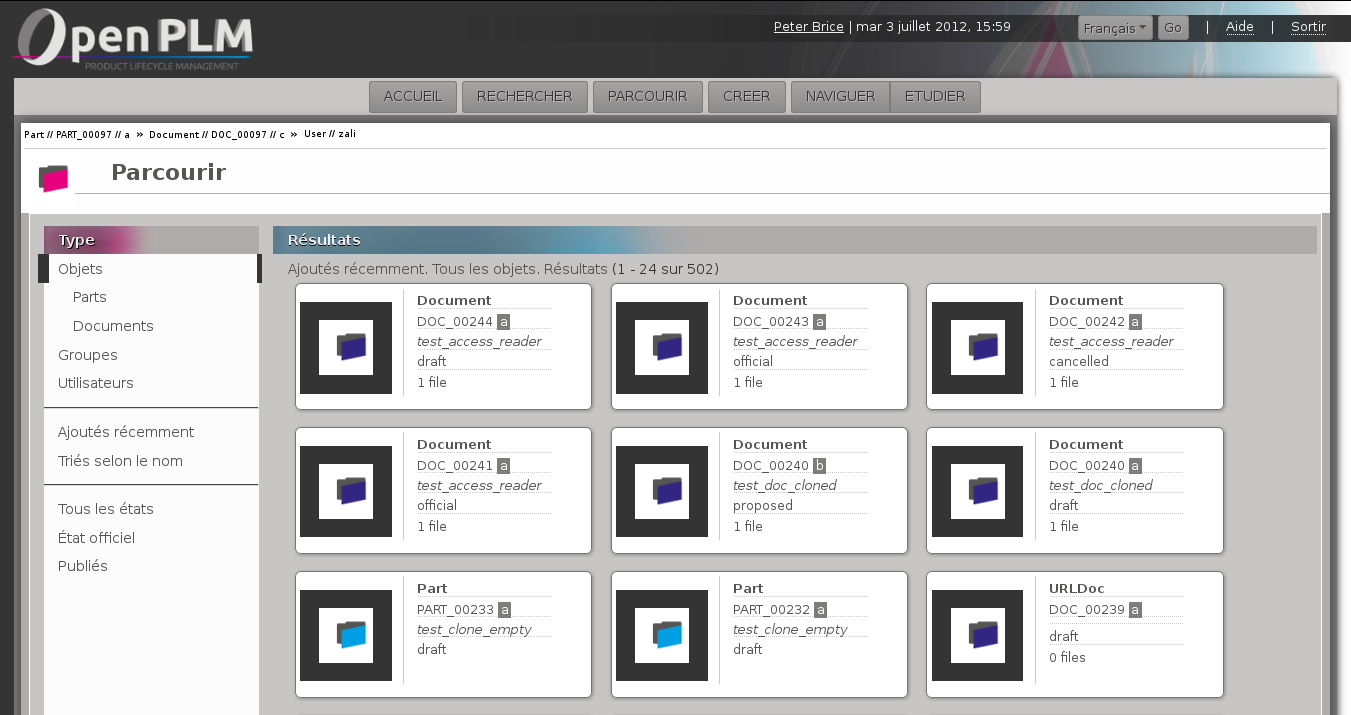
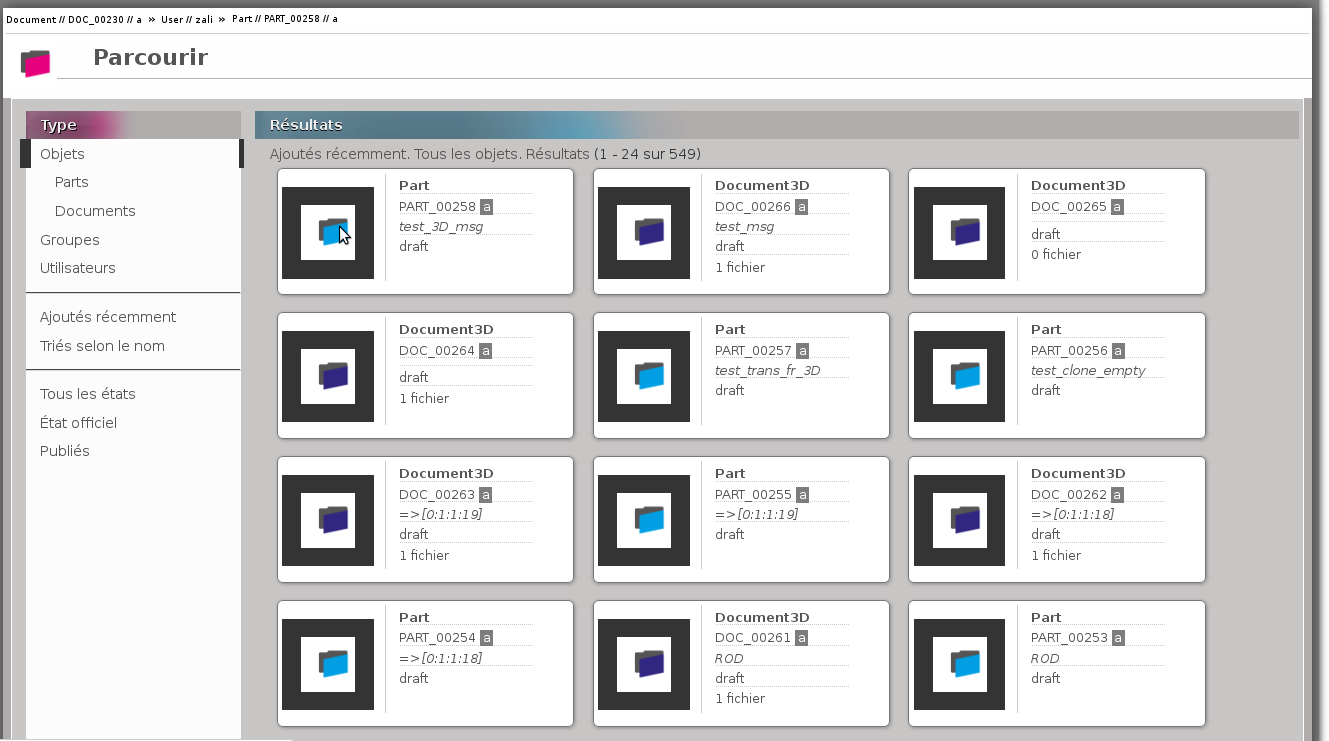
Doc (fr,en): update browse documentation (image)

diff --git a/docs/fr/_static/user_features/css/feature.css b/docs/fr/_static/user_features/css/feature.css
@@ -183,26 +183,26 @@
 }
 
 #browse_type_filter{
-    top: 35%;
+    top: 17%;
     left: 13%;
 }
 
 #browse_sort{
-    top: 60%;
+    top: 43%;
     left: 13%;
 }
 
 #browse_options{
-    top: 70%;
+    top: 55%;
     left: 13%;
 }
 
 #browse_results{
-    top: 33%;
+    top: 16%;
     left: 52%;
 }
 
 #browse_id_card{
-    top: 45%;
+    top: 43%;
     left: 26%;
 }
